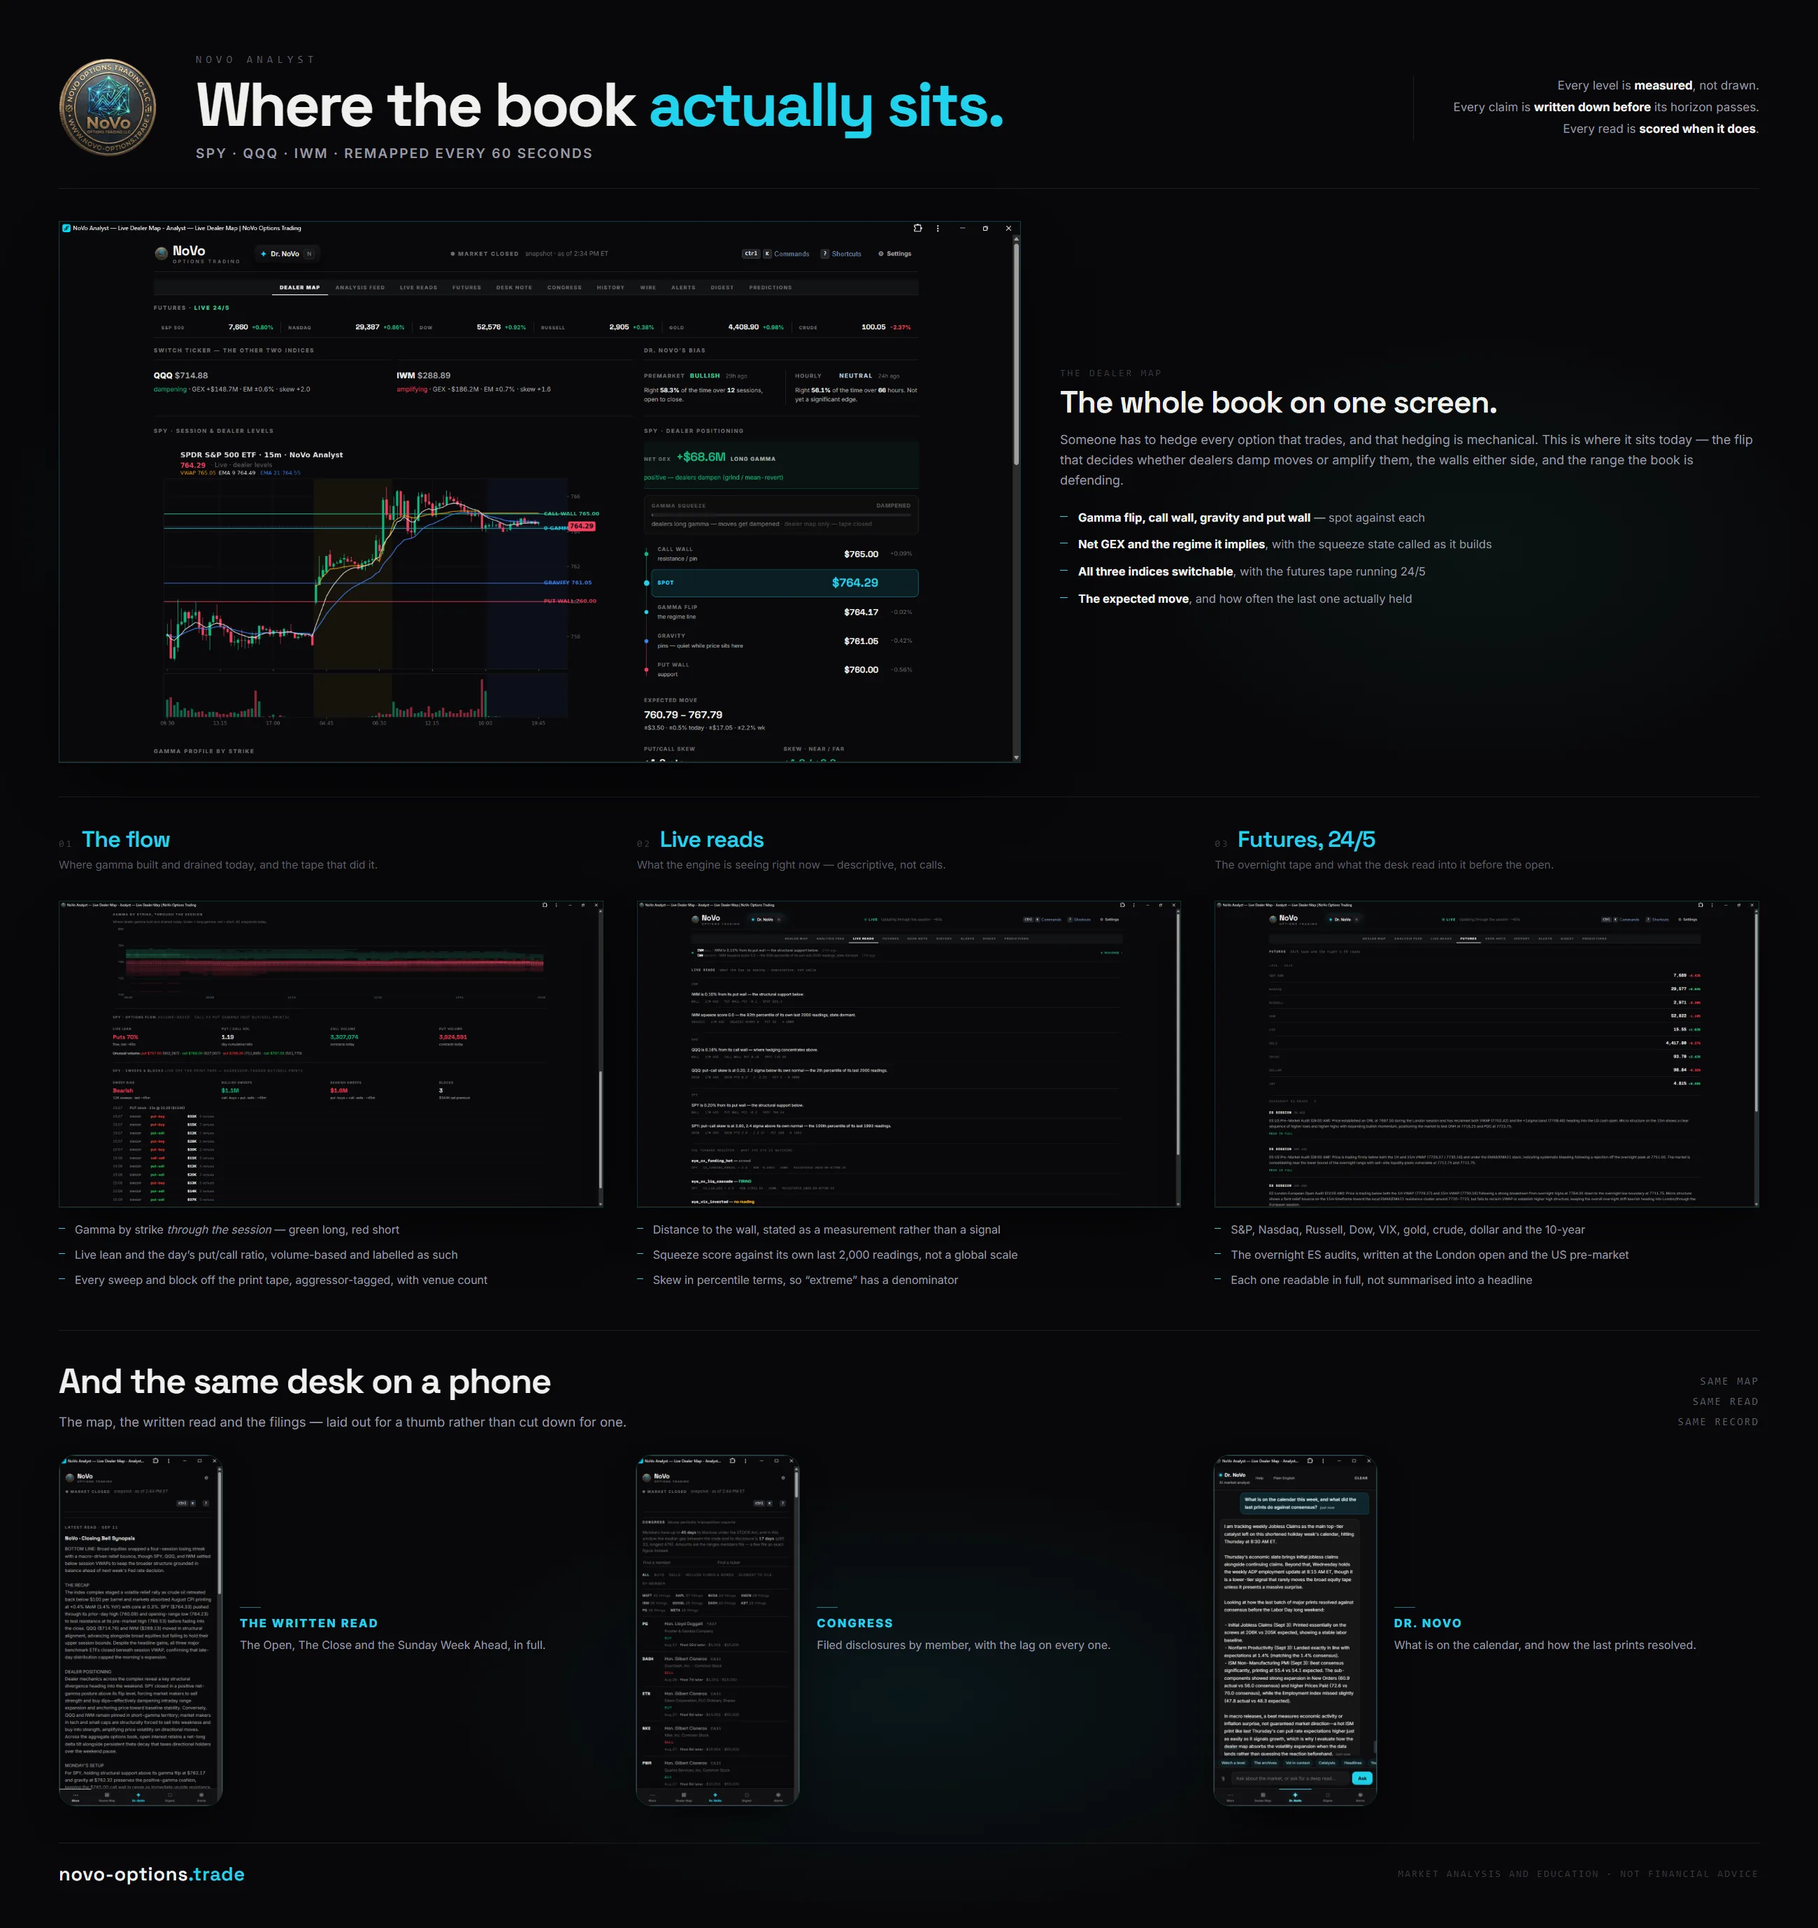
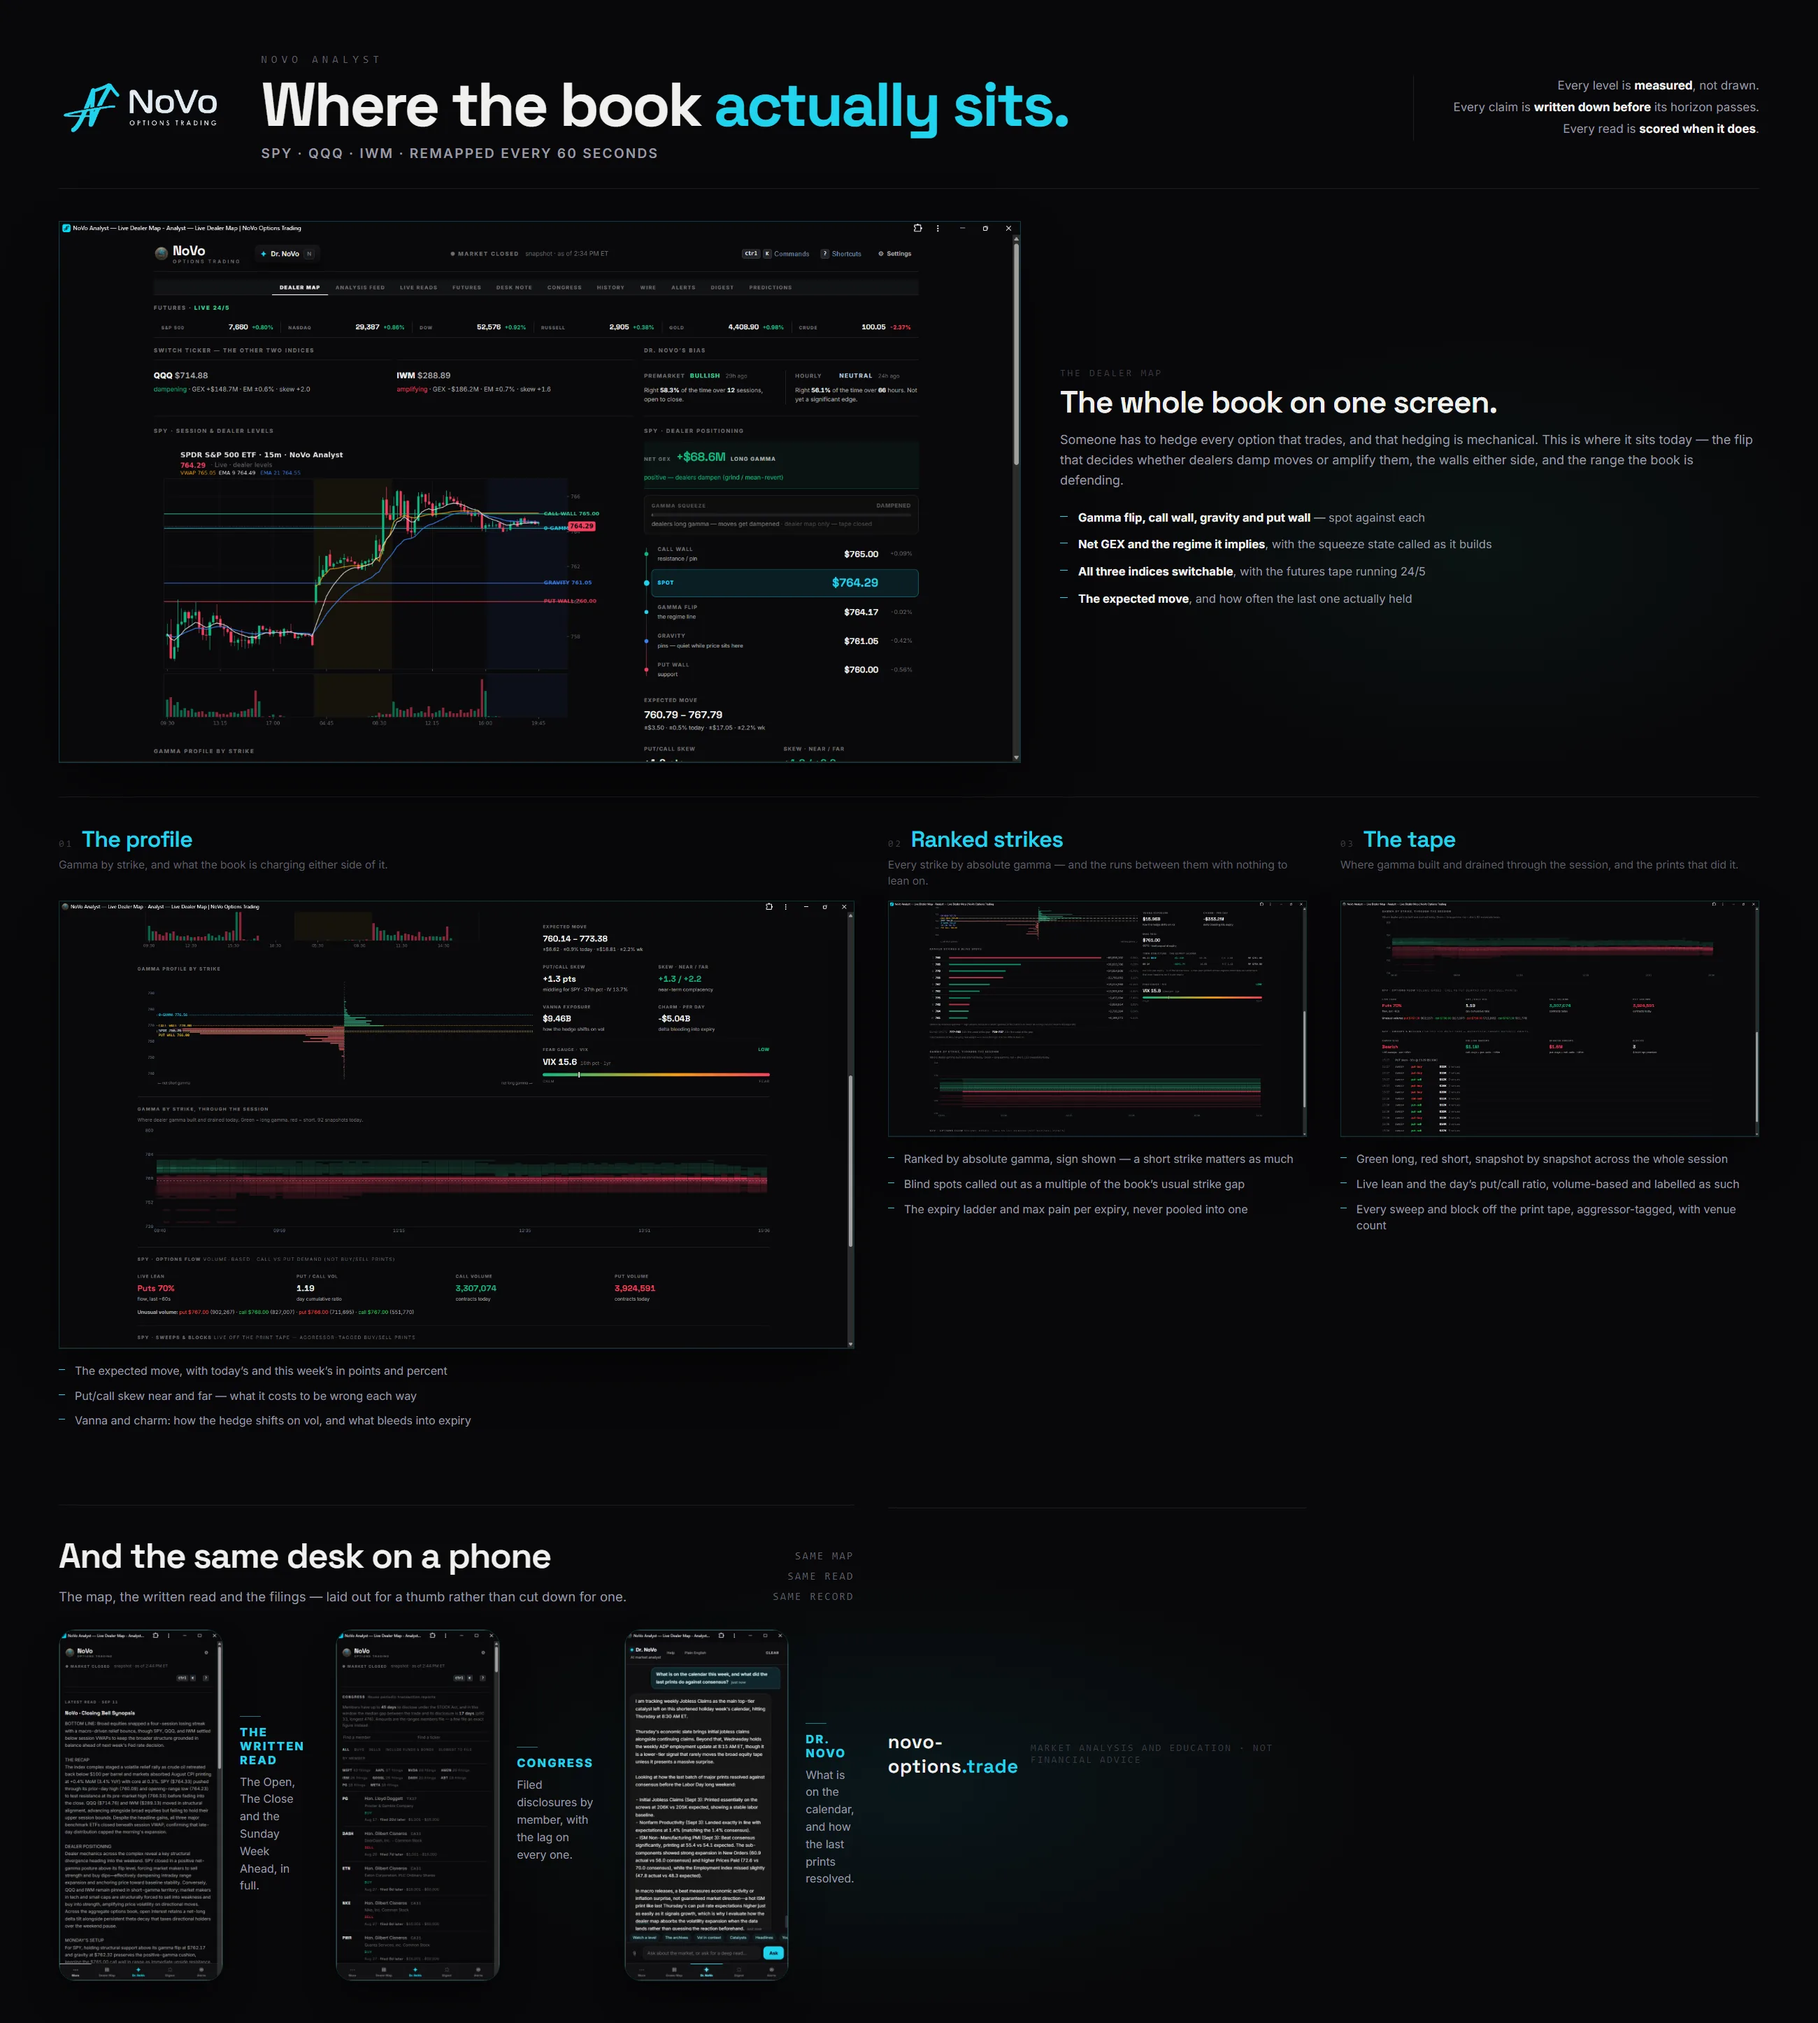
Product sheets: right order, better shots, product wordmarks — and the analyst UI shots put back
Four corrections from Jake, all of them mine:

1. ORDER. He sent the homepage as the reference: hero, then the STATS strip,
   then the sheet. I had anchored on each page's stats COMMENT, which lands the
   band BEFORE the strip rather than after it. Moved on /crypto and /trader.
   /analyst has no stats strip, so its band stays directly under the hero.

2. I DELETED THE ANALYST UI SHOTS AND SHOULD NOT HAVE. "I didnt want that put
   the ui shots back down there." The fanned .ss-wrap gallery and its phone row
   are restored exactly as they were; the sheet goes ABOVE them, in place of the
   blue ONE HOUSE strip he crossed out. The two are not alternatives — the shots
   sit beside their own copy further down the page and still earn it.

3. "THERE IS DEFINITELY BETTER UI SHOT.. YOU MISSED THE MIDDLE ENTIRELY." He was
   right: the analyst middle band was three dark text-heavy captures — a futures
   number list, a wall of live-reads text, a flow heatmap — which at 790px wide
   render as grey smudges with nothing to look at. Replaced with the three that
   actually carry shape and colour: the gamma profile with the fear-gauge
   gradient, ranked strikes and blind spots with the expiry ladder, and gamma
   through the session with the sweep tape.

   ⚠ AND I NEARLY SHIPPED THE OLD CAPTIONS UNDER THE NEW IMAGES. Swapping the
   shots left three columns describing screens they were no longer showing — a
[…]

diff --git a/public/analyst.html b/public/analyst.html
@@ -138,6 +138,17 @@ j.src='https://www.googletagmanager.com/gtm.js?id='+i+dl;f.parentNode.insertBefo
   section { padding: 80px 0; }
   hr.divider { border: none; border-top: 1px solid var(--bdr); margin: 0; }
 
+
+  /* ── the product sheet, full-bleed under the hero ───────────────────────────────────────────
+     Same treatment as the homepage ecosystem sheet: edge to edge because it sits outside
+     .container, its own black ground meeting the page so the dividers read as its rules.
+     ⚠ THE SCROLLER IS NOT DECORATION: a 2,600px sheet at 390px is a legible-LOOKING smear.
+     min-width holds it readable and the figure takes the overflow, so a phone swipes across it
+     and the PAGE never scrolls sideways. */
+  .eco-band { margin: 0; padding: 0; overflow-x: auto; overflow-y: hidden;
+    -webkit-overflow-scrolling: touch; scrollbar-width: thin; }
+  .eco-band img { display: block; width: 100%; min-width: 860px; height: auto; }
+  @media (max-width: 860px) { .eco-band img { min-width: 780px; } }
   /* ── Nav ── */
   nav { position: sticky; top: 0; z-index: 100; background: rgba(18,19,22,0.95); backdrop-filter: blur(8px); border-bottom: 1px solid var(--bdr); }
   .nav-inner { display: flex; align-items: center; justify-content: space-between; padding: 12px 22px; max-width: 1200px; margin: 0 auto; }
@@ -671,14 +682,22 @@ height="0" width="0" style="display:none;visibility:hidden"></iframe></noscript>
   </div>
 </section>
 
-<!-- ONE HOUSE strip -->
-<div style="background:rgba(34,211,238,0.05);border-top:1px solid rgba(34,211,238,0.2);border-bottom:1px solid rgba(34,211,238,0.2);padding:44px 0;text-align:center;">
-  <div class="container" style="max-width:760px;">
-    <div style="font-size:11px;font-weight:700;letter-spacing:3px;text-transform:uppercase;color:#22d3ee;margin-bottom:16px;">One Tool, One House</div>
-    <p style="font-size:clamp(20px,3vw,28px);font-weight:900;color:var(--txt1);line-height:1.25;margin:0 0 14px;letter-spacing:-0.5px;">The read and the trade, under one roof.</p>
-    <p style="font-size:15px;color:var(--txt2);line-height:1.75;margin:0 auto;max-width:640px;">NoVo Options Trading is one house &mdash; from your first read to the live tape. <b style="color:var(--txt1);">Analyst</b> is the read lane: the live dealer map and a desk's written read every session When you're ready to act on it, <b style="color:var(--txt1);">Trader</b> streams that read on a live candle chart, level by level &mdash; same house. Most tools hand you a map and stop there. NoVo Options Trading scores its own read and publishes the record.</p>
-  </div>
-</div>
+<!-- ═══ THE ANALYST SHEET ══════════════════════════════════════════════════════════
+     Replaces the blue ONE HOUSE strip that stood here (Jake, 2026-09-12: "Delete that blue banner
+     there from the analyst page and put the new mash up in its place"). Same slot as the sheets on
+     /trader and /crypto — directly under the hero — and the same full-bleed treatment as the
+     homepage: outside .container, between two dividers, so the dividers become its hairlines.
+     ⚠ THE FANNED ss-wrap SHOTS LOWER DOWN STAY. An earlier pass deleted them to make room for this
+     and Jake put them back: "I didnt want that put the ui shots back down there". They sit beside
+     their own copy and the sheet does not replace them — it goes ABOVE them. -->
+<hr class="divider">
+
+<figure class="eco-band">
+  <img src="/screenshots/analyst-sheet.webp?v=1" width="2600" height="2893" loading="lazy"
+       decoding="async" alt="The NoVo Analyst dealer map: gamma flip, call and put walls, gravity and the expected range, with the gamma profile, the flow tape and the 24/5 futures tape — and the written read, Congress filings and Dr. NoVo on a phone.">
+</figure>
+
+<hr class="divider">
 
 <!-- THE DEALER MAP — feature grid -->
 <!-- WHO IT'S FOR -->

diff --git a/public/crypto.html b/public/crypto.html
@@ -758,6 +758,19 @@ height="0" width="0" style="display:none;visibility:hidden"></iframe></noscript>
 </section>
 
 <!-- COVERAGE STATS -->
+
+<section class="stats">
+  <div class="container">
+    <div class="stats-grid" style="grid-template-columns:repeat(4,1fr);text-align:center;">
+      <div><div class="stat-val" style="font-size:34px;font-weight:900;"><span data-mappedcount>91</span></div><div style="font-size:12px;color:var(--txt3);letter-spacing:1px;text-transform:uppercase;">Coins mapped</div></div>
+      <div><div class="stat-val" style="font-size:34px;font-weight:900;">7</div><div style="font-size:12px;color:var(--txt3);letter-spacing:1px;text-transform:uppercase;">With a dealer map</div></div>
+      <div><div class="stat-val" style="font-size:34px;font-weight:900;">83</div><div style="font-size:12px;color:var(--txt3);letter-spacing:1px;text-transform:uppercase;">With leverage positioning</div></div>
+      <div><div class="stat-val" style="font-size:34px;font-weight:900;"><span data-chaincount>300+</span></div><div style="font-size:12px;color:var(--txt3);letter-spacing:1px;text-transform:uppercase;">On-chain tokens</div></div>
+      
+    </div>
+  </div>
+</section>
+
 <hr class="divider">
 
 <!-- ═══ THE CRYPTO MAP SHEET ══════════════════════════════════════════════════
@@ -772,18 +785,6 @@ height="0" width="0" style="display:none;visibility:hidden"></iframe></noscript>
 </figure>
 
 <hr class="divider">
-
-<section class="stats">
-  <div class="container">
-    <div class="stats-grid" style="grid-template-columns:repeat(4,1fr);text-align:center;">
-      <div><div class="stat-val" style="font-size:34px;font-weight:900;"><span data-mappedcount>91</span></div><div style="font-size:12px;color:var(--txt3);letter-spacing:1px;text-transform:uppercase;">Coins mapped</div></div>
-      <div><div class="stat-val" style="font-size:34px;font-weight:900;">7</div><div style="font-size:12px;color:var(--txt3);letter-spacing:1px;text-transform:uppercase;">With a dealer map</div></div>
-      <div><div class="stat-val" style="font-size:34px;font-weight:900;">83</div><div style="font-size:12px;color:var(--txt3);letter-spacing:1px;text-transform:uppercase;">With leverage positioning</div></div>
-      <div><div class="stat-val" style="font-size:34px;font-weight:900;"><span data-chaincount>300+</span></div><div style="font-size:12px;color:var(--txt3);letter-spacing:1px;text-transform:uppercase;">On-chain tokens</div></div>
-      
-    </div>
-  </div>
-</section>
 
 <!-- NOVO: THE REAL PITCH -->
 <section class="pain">

diff --git a/public/trader.html b/public/trader.html
@@ -705,6 +705,20 @@ nav { position: relative; }
 </section>
 
 <!-- STATS -->
+
+<div class="stats">
+  <div class="container">
+    <div class="stats-grid">
+      <div class="stat"><div class="stat-val blue">Live</div><div class="stat-label">Structure Scan — Continuous</div></div>
+      <div class="stat"><div class="stat-val blue">3</div><div class="stat-label">AI Intelligence Layers</div></div>
+      <div class="stat"><div class="stat-val blue">2</div><div class="stat-label">Plans — monthly or yearly</div></div>
+      <div class="stat"><div class="stat-val blue">~50ms</div><div class="stat-label">Tape to Chart &mdash; Every Tick</div></div>
+    </div>
+  </div>
+</div>
+
+<hr class="divider">
+
 <hr class="divider">
 
 <!-- ═══ THE TRADER SHEET ══════════════════════════════════════════════════
@@ -717,19 +731,6 @@ nav { position: relative; }
   <img src="/screenshots/trader-sheet.webp?v=1" width="2600" height="2763" loading="lazy"
        decoding="async" alt="NoVo Trader: the dealer map drawn on the candles with the analysis rail beside it, the analysis feed, the desk panels and the volume profile — and the same chart, panel menu and Dr. NoVo on a phone.">
 </figure>
-
-<hr class="divider">
-
-<div class="stats">
-  <div class="container">
-    <div class="stats-grid">
-      <div class="stat"><div class="stat-val blue">Live</div><div class="stat-label">Structure Scan — Continuous</div></div>
-      <div class="stat"><div class="stat-val blue">3</div><div class="stat-label">AI Intelligence Layers</div></div>
-      <div class="stat"><div class="stat-val blue">2</div><div class="stat-label">Plans — monthly or yearly</div></div>
-      <div class="stat"><div class="stat-val blue">~50ms</div><div class="stat-label">Tape to Chart &mdash; Every Tick</div></div>
-    </div>
-  </div>
-</div>
 
 <hr class="divider">
 
